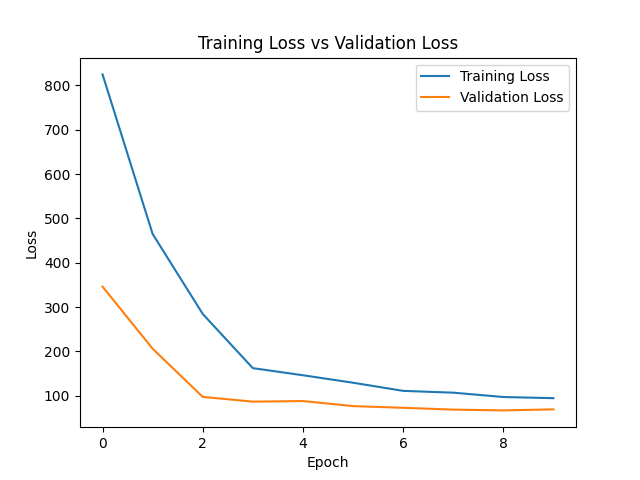
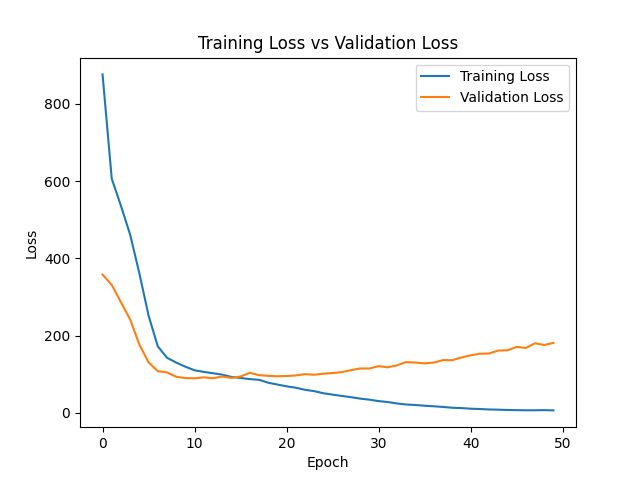
not yet optimized

diff --git a/models/multilabel/bert_model.py b/models/multilabel/bert_model.py
@@ -5,6 +5,7 @@ import torch.optim as optim
 import torch.nn.functional as F
 import numpy as np
 from transformers import AutoTokenizer, AutoModel, BertConfig, BertForSequenceClassification
+from config import opt
 
 class BertLayerNorm(nn.Module):
     def __init__(self, hidden_size, eps=1e-12):
@@ -28,9 +29,9 @@ class BertEmbedding(nn.Module):
         # self.bert = BertForSequenceClassification.from_pretrained("bert-base-uncased", num_labels)
         self.device = torch.device('cuda') if torch.cuda.is_available() else torch.device('cpu')
         # mesin pertama untuk input pasien
-        self.bert = AutoModel.from_pretrained('indobenchmark/indobert-base-p1', output_hidden_states=True, output_attentions=True, ignore_mismatched_sizes=True)
+        self.bert = AutoModel.from_pretrained(opt.MODEL_NAME, output_hidden_states=True, output_attentions=True, ignore_mismatched_sizes=True)
         # mesin kedua untuk memahami intent
-        self.bertlabelencoder = AutoModel.from_pretrained('indobenchmark/indobert-base-p1', ignore_mismatched_sizes=True)
+        self.bertlabelencoder = AutoModel.from_pretrained(opt.MODEL_NAME, ignore_mismatched_sizes=True)
         # self.dropout = nn.Dropout(0.1)
         # self.classifier = nn.Linear(config.hidden_size, num_labels)
 

diff --git a/models/multilabel/predict.py b/models/multilabel/predict.py
@@ -3,12 +3,12 @@ import torch
 from config import opt
 from data.data_preparation import listof_intent, tokenized_intent
 from models.multilabel.bert_model import BertEmbedding
-from transformers import AutoTokenizer
+from transformers import BertTokenizer
 
 class predictor:
     def __init__(self, model_path = 'checkpoint/IndoBERT_multi_label_zsl.pt', thresold = 0.5):
         self.device = torch.device('cuda') if torch.cuda.is_available() else torch.device ('cpu')
-        self.tokenizer = AutoTokenizer.from_pretrained('indobenchmark/indobert-base-p1')
+        self.tokenizer = BertTokenizer.from_pretrained(opt.MODEL_NAME)
         self.thresold = thresold
 
         # kerangka model

diff --git a/data/data_preparation.py b/data/data_preparation.py
@@ -4,13 +4,13 @@ import pandas as pd
 from sklearn.preprocessing import MultiLabelBinarizer
 from sklearn.model_selection import train_test_split
 from torch.utils.data import Dataset, DataLoader
-from transformers import AutoTokenizer
+from transformers import BertTokenizer
 from config import opt
 
 pd.set_option('display.max_columns', None)
 dsqi = pd.read_csv('data/dataset_multiintent.csv', encoding='latin-1') # dsqi = dataset question intent
 
-tokenizer = AutoTokenizer.from_pretrained('indobenchmark/indobert-base-p1')
+tokenizer = BertTokenizer.from_pretrained(opt.MODEL_NAME)
 device = torch.device("cuda" if torch.cuda.is_available() else "cpu")
 # tokenizer.to(device)
 

diff --git a/core/vector_db.py b/core/vector_db.py
@@ -5,6 +5,7 @@ import pandas as pd
 from langchain_community.vectorstores import FAISS
 from langchain_huggingface import HuggingFaceEmbeddings
 from langchain_core.documents import Document
+from config import opt
 
 # Indonesian stopwords untuk keyword extraction
 STOPWORDS_ID = {
@@ -25,7 +26,7 @@ STOPWORDS_ID = {
 
 
 class VectorDBManager:
-    def __init__(self, model_name='indobenchmark/indobert-base-p1'):
+    def __init__(self, model_name=opt.MODEL_NAME):
         self.embeddings = HuggingFaceEmbeddings(model_name=model_name)
         self.bible_db = None
         self.qna_db = None

diff --git a/config.py b/config.py
@@ -1,9 +1,9 @@
 class config:
     BATCH_SIZE = 32
     max_len = 128
-    epochs = 10
+    epochs = 50
     LEARNING_RATE = 1e-5
-    MODEL_NAME = 'indobenchmark/indobert-base-p1'
+    MODEL_NAME = 'indobenchmark/indobert-lite-base-p1'
     thresold = 0.5
     device = 'cuda'
     hidden_size = 768
